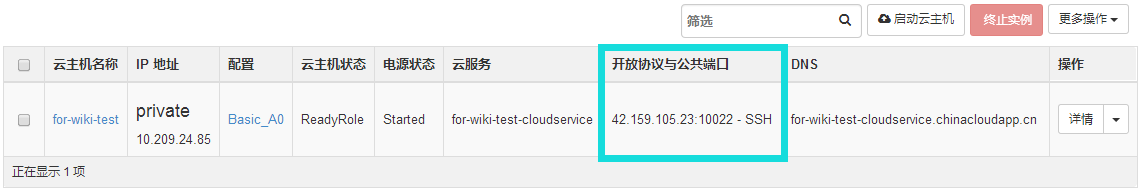
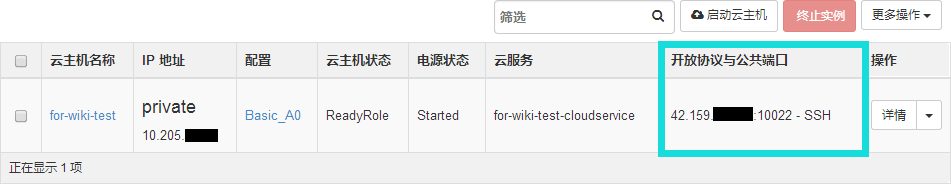
code imporvement and cutting some picture
code imporvement and cutting some picture

Changed region(s): [[0.0, 0.0, 1.0, 0.8696], [0.0, 0.8696, 0.0915, 0.9511], [0.5184, 0.0543, 0.5489, 0.1359]]

diff --git a/openstack_dashboard/dashboards/azure/cloudservices/templates/cloudservices/_detail_overview.html b/openstack_dashboard/dashboards/azure/cloudservices/templates/cloudservices/_detail_overview.html
@@ -7,8 +7,6 @@
   <h4>{% trans "Basic Information" %}</h4>
   <hr class="header_rule">
   <dl class="dl-horizontal">
-    <dt>{% trans "url" %}</dt>
-    <dd>{{ cloudservice.url }}</dd>
     <dt>{% trans "service_name" %}</dt>
     <dd>{{ cloudservice.service_name }}</dd>
   </dl>

diff --git a/openstack_dashboard/dashboards/azure/instances/templates/instances/_update_instance_help.html b/openstack_dashboard/dashboards/azure/instances/templates/instances/_update_instance_help.html
@@ -1,0 +1,4 @@
+{% load i18n horizon %}
+
+<p>{% blocktrans %}Edit the instance availability set.{% endblocktrans %}</p>
+<p>{% blocktrans %}Note: Please backup your important data to persistent storage. Update action will restart your instance.{% endblocktrans %}</p>

diff --git a/openstack_dashboard/dashboards/azure/disks/templates/disks/_detail_overview.html b/openstack_dashboard/dashboards/azure/disks/templates/disks/_detail_overview.html
@@ -23,8 +23,6 @@
     <dd>{{ disk.source_image_name }}</dd>
     <dt>{% trans "os" %}</dt>
     <dd>{{ disk.os }}</dd>
-    <dt>{% trans "media_link" %}</dt>
-    <dd>{{ disk.media_link }}</dd>
   </dl>
 </div>
 

diff --git a/openstack_dashboard/api/azure_api.py b/openstack_dashboard/api/azure_api.py
@@ -19,6 +19,7 @@ import time
 
 from azure.servicemanagement import ConfigurationSet  # noqa
 from azure.servicemanagement import ConfigurationSetInputEndpoint  # noqa
+from azure.servicemanagement import ConfigurationSetInputEndpoints
 from azure.servicemanagement import LinuxConfigurationSet  # noqa
 from azure.servicemanagement import LoadBalancerProbe  # noqa
 from azure.servicemanagement import OSVirtualHardDisk  # noqa
@@ -154,6 +155,14 @@ def azureclient(request):
 def subscription_get(request):
     """Azure location geographic domain."""
     return azureclient(request).get_subscription()
+
+
+def subscription_quota_check(request, resource):
+    sub = subscription_get(request)
+    if resource == 'cores':
+        return sub.max_core_count - sub.current_core_count > 0
+    if resource == 'cloudservice':
+        return sub.max_hosted_services - sub.current_hosted_services > 0
 
 
 @memoized
@@ -542,7 +551,7 @@ def virtual_machine_delete(request, service_name,
 
 def virtual_machine_shutdown(request, service_name,
                              deployment_name, role_name,
-                             post_shutdown_action='Stopped'):
+                             post_shutdown_action='StoppedDeallocated'):
     """Shutdown an azure vm of a cloudservice/deployment."""
     client = azureclient(request)
     result = client.shutdown_role(
@@ -589,11 +598,39 @@ def virtual_machine_resize(request, service_name,
                            role_size):
     """Resize an azure virtual machine."""
     client = azureclient(request)
-    result = client.update_role(
-        service_name, deployment_name,
-        role_name,
-        role_size=role_size)
-    return _get_operation_status(client, result.request_id)
+
+    cs = client.get_hosted_service_properties(
+        service_name=service_name,
+        embed_detail=True)
+    vm = client.get_role(service_name, deployment_name, role_name)
+
+    if cs and vm:
+        old_network_config = None
+        for cf in vm.configuration_sets:
+            old_network_config = cf if (cf.configuration_set_type ==
+                                        'NetworkConfiguration') else None
+        if old_network_config.input_endpoints is not None:
+            for end in old_network_config.input_endpoints.input_endpoints:
+                if end.load_balancer_probe is None:
+                    end.load_balancer_probe = LoadBalancerProbe()
+
+            if (old_network_config.subnet_names is None and
+                    old_network_config.public_ips is None):
+                new_conf = ConfigurationSet()
+                new_conf.input_endpoints.input_endpoints = \
+                    old_network_config.input_endpoints.input_endpoints
+                old_network_config = new_conf
+        else:
+            old_network_config.input_endpoints = ConfigurationSetInputEndpoints()
+            old_network_config.input_endpoints.input_endpoints = []
+            old_network_config.subnet_names = []
+
+        result = client.update_role(
+                service_name, deployment_name,
+                role_name,
+                network_config=old_network_config,
+                role_size=role_size)
+        return _get_operation_status(client, result.request_id)
 
 
 def _get_instance_used_local_ports(instance):
@@ -751,8 +788,7 @@ def virtual_machine_update(request, service_name, deployment_name, role_name,
         for cf in vm.configuration_sets:
             old_network_config = cf if (cf.configuration_set_type ==
                                         'NetworkConfiguration') else None
-        if (old_network_config
-                and old_network_config.input_endpoints is not None):
+        if old_network_config.input_endpoints is not None:
             for end in old_network_config.input_endpoints.input_endpoints:
                 if end.load_balancer_probe is None:
                     end.load_balancer_probe = LoadBalancerProbe()
@@ -763,24 +799,19 @@ def virtual_machine_update(request, service_name, deployment_name, role_name,
                 new_conf.input_endpoints.input_endpoints = \
                     old_network_config.input_endpoints.input_endpoints
                 old_network_config = new_conf
-
-        if old_network_config is not None:
-            result = client.update_role(
-                service_name, deployment_name, role_name,
-                os_virtual_hard_disk, old_network_config,
-                availability_set_name, data_virtual_hard_disks,
-                role_size, role_type,
-                resource_extension_references,
-                provision_guest_agent)
         else:
-            result = client.update_role(
-                service_name, deployment_name, role_name,
-                os_virtual_hard_disk, network_config,
-                availability_set_name, data_virtual_hard_disks,
-                role_size, role_type,
-                resource_extension_references,
-                provision_guest_agent)
-    return _get_operation_status(client, result.request_id)
+            old_network_config.input_endpoints = ConfigurationSetInputEndpoints()
+            old_network_config.input_endpoints.input_endpoints = []
+            old_network_config.subnet_names = []
+
+        result = client.update_role(
+            service_name, deployment_name, role_name,
+            os_virtual_hard_disk, old_network_config,
+            availability_set_name, data_virtual_hard_disks,
+            role_size, role_type,
+            resource_extension_references,
+            provision_guest_agent)
+        return _get_operation_status(client, result.request_id)
 
 
 def disk_list(request):

diff --git a/openstack_dashboard/dashboards/azure/instances/workflows/update_instance.py b/openstack_dashboard/dashboards/azure/instances/workflows/update_instance.py
@@ -12,6 +12,8 @@
 #    License for the specific language governing permissions and limitations
 #    under the License.
 
+import re
+
 from django.utils.translation import ugettext_lazy as _
 
 from horizon import exceptions
@@ -20,16 +22,28 @@ from horizon import workflows
 
 from openstack_dashboard import api
 
+NAME_REGEX = re.compile(r"^[a-zA-Z][a-zA-Z0-9\-]*$", re.UNICODE)
+
+NAME_HELP_TEXT = _('Availability set name must begin with letter'
+                   ' and only contain'
+                   ' letters, numbers and hyphens.')
+ERROR_MESSAGES = {'invalid': NAME_HELP_TEXT}
+
 
 class UpdateInstanceAvailabilitySetAction(workflows.Action):
-    availability_set_name = forms.CharField(
+    availability_set_name = forms.RegexField(
         label=_("Availability Set Name"),
+        max_length=255,
+        regex=NAME_REGEX,
+        error_messages=ERROR_MESSAGES,
+        help_text=NAME_HELP_TEXT,
         required=False)
 
     class Meta(object):
         name = _("Availability Set")
         slug = 'availability_set'
-        help_text = _("Edit the instance availability set.")
+        help_text_template = ("azure/instances/"
+                              "_update_instance_help.html")
 
 
 class UpdateInstanceAvailabilitySet(workflows.Step):

diff --git a/openstack_dashboard/dashboards/azure/instances/views.py b/openstack_dashboard/dashboards/azure/instances/views.py
@@ -78,8 +78,6 @@ class IndexView(tables.DataTableView):
                         role_dict = dict([(r.role_name, r)
                                           for r in dep.role_list])
                         for ins in dep.role_instance_list:
-                            # set DNS
-                            ins.dns_url = dep.url[7:-1]
                             # set cloud service name
                             ins.cloud_service_name = cs.service_name
                             # set deployment name
@@ -100,13 +98,15 @@ class DetailView(tabs.TabView):
     tab_group_class = project_tabs.InstanceDetailTabs
     template_name = 'azure/instances/detail.html'
     redirect_url = 'horizon:azure:instances:index'
-    page_title = _("Instance Details: {{ instance.name }}")
 
     def get_context_data(self, **kwargs):
         context = super(DetailView, self).get_context_data(**kwargs)
         instance = self.get_data()
         context["instance"] = instance
         context["url"] = reverse(self.redirect_url)
+        context["page_title"] = _(
+            "Instance Details: %(instance_name)s") % {
+                'instance_name': instance.role_name}
         return context
 
     @memoized.memoized_method

diff --git a/openstack_dashboard/dashboards/azure/instances/tables.py b/openstack_dashboard/dashboards/azure/instances/tables.py
@@ -450,7 +450,6 @@ class UpdateRow(tables.Row):
                     role_dict = dict([(r.role_name, r)
                                       for r in dep.role_list])
                     for ins in dep.role_instance_list:
-                        ins.dns_url = dep.url[7:-1]
                         ins.cloud_service_name = cloudservice_name
                         ins.deployment_name = dep.name
                         ins.role = role_dict.get(ins.role_name)
@@ -502,8 +501,6 @@ class InstancesTable(tables.DataTable):
                                        verbose_name=_("Cloud Service"))
     Endpoints = tables.Column(get_endpoints,
                               verbose_name=_("Endpoints"))
-    dns_url = tables.Column("dns_url",
-                            verbose_name=_("DNS"))
 
     def get_object_display(self, datum):
         return datum.role_name

diff --git a/openstack_dashboard/test/api_tests/azure_api_tests.py b/openstack_dashboard/test/api_tests/azure_api_tests.py
@@ -417,7 +417,7 @@ class AzureApiTests(test.APITestCase):
             service_name=api_cloudservice.service_name,
             deployment_name=api_deployment.name,
             role_name=api_role.role_name,
-            post_shutdown_action='Stopped').AndReturn(result)
+            post_shutdown_action='StoppedDeallocated').AndReturn(result)
         self._get_operation(azureclient, result)
         self.mox.ReplayAll()
 
